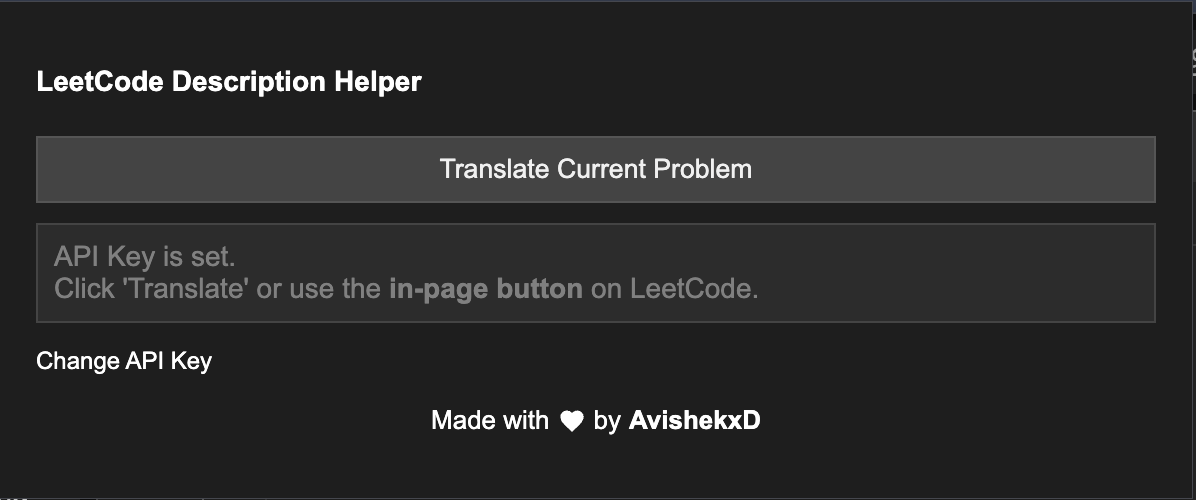
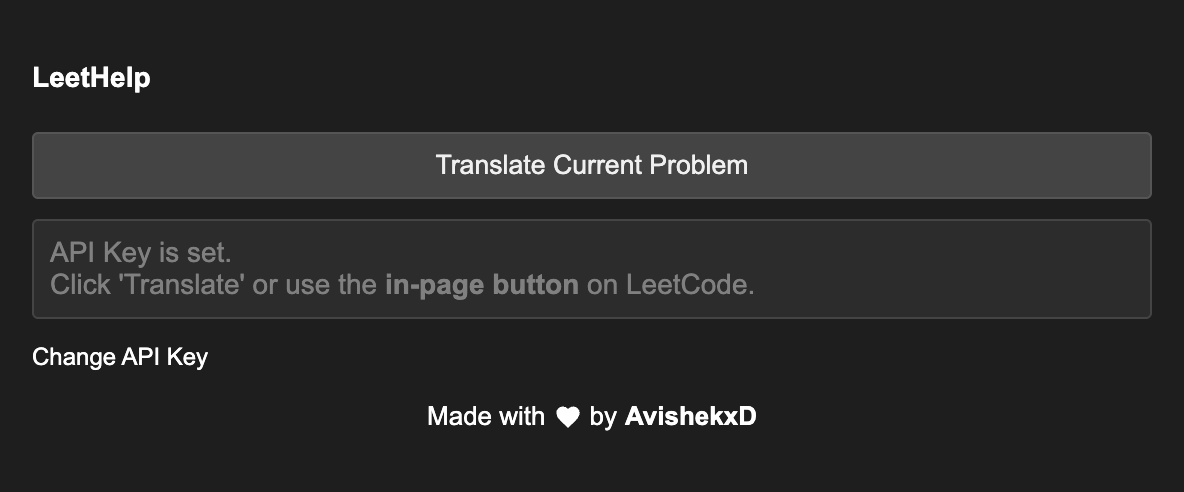
chore: changes in popup style and dyanamically changing inpage button text to slected language.

diff --git a/content.js b/content.js
@@ -186,6 +186,12 @@ function getTranslatedHtml(text) {
 /**
  * Updates the button's content, classes, and text for the given state.
  */
+let selectedLanguage = "Hinglish"; // Default language
+
+function getButtonText(language) {
+    return `Convert to ${language}`;
+}
+
 function updateButtonState(state) {
     if (!toggleBtn) return;
 
@@ -195,7 +201,7 @@ function updateButtonState(state) {
 
     switch (state) {
         case 'initial':
-            toggleBtn.innerHTML = `${SWAP_SVG_ICON}<span>${INITIAL_BTN_TEXT}</span>`;
+            toggleBtn.innerHTML = `${SWAP_SVG_ICON}<span>${getButtonText(selectedLanguage)}</span>`;
             isTranslated = false;
             break;
         case 'translated':
@@ -209,6 +215,20 @@ function updateButtonState(state) {
             toggleBtn.disabled = true;
             break;
     }
+}
+
+// Add this function to fetch the selected language
+function updateSelectedLanguage() {
+    chrome.storage.local.get(['selectedLanguage'], (data) => {
+        if (data.selectedLanguage) {
+            selectedLanguage = data.selectedLanguage;
+            // Update button text if it exists
+            const btn = document.getElementById("hinglish-toggle-btn");
+            if (btn && !isTranslated) {
+                btn.innerHTML = `${SWAP_SVG_ICON}<span>${getButtonText(selectedLanguage)}</span>`;
+            }
+        }
+    });
 }
 
 
@@ -336,7 +356,8 @@ function injectHinglishButton() {
     // Apply LeetCode styling classes
     toggleBtn.className = "relative inline-flex items-center justify-center text-caption px-2 py-1 gap-1 rounded-full bg-fill-secondary cursor-pointer transition-colors hover:bg-fill-primary hover:text-text-primary text-sd-secondary-foreground hover:opacity-80 whitespace-nowrap";
 
-    // Set initial state content
+    // Get the current selected language and set initial state
+    updateSelectedLanguage();
     updateButtonState('initial');
 
     // Determine injection point
@@ -351,6 +372,17 @@ function injectHinglishButton() {
     // Attach handler - only executed once
     toggleBtn.addEventListener("click", handleTranslation);
 }
+
+// Add listener for storage changes to update button text
+chrome.storage.onChanged.addListener((changes, namespace) => {
+    if (namespace === 'local' && changes.selectedLanguage) {
+        selectedLanguage = changes.selectedLanguage.newValue;
+        const btn = document.getElementById("hinglish-toggle-btn");
+        if (btn && !isTranslated) {
+            btn.innerHTML = `${SWAP_SVG_ICON}<span>${getButtonText(selectedLanguage)}</span>`;
+        }
+    }
+});
 
 // Inject the custom CSS for the loading animation once
 injectLoadingStyle();

diff --git a/popup.html b/popup.html
@@ -1,7 +1,7 @@
 <!DOCTYPE html>
 <html>
   <head>
-    <title>LeetCode Description Helper</title>
+    <title>LeetHelp</title>
     <style>
       body {
         font-family: Arial, sans-serif;
@@ -19,6 +19,7 @@
         border: 1px solid #555; 
         cursor: pointer;
         transition: background 0.2s;
+        border-radius: 3px;
       }
       button:hover {
         background: #555; 
@@ -31,6 +32,7 @@
         border: 1px solid #444;
         font-size: 14px;
         color: #fff; 
+        border-radius: 3px;
       }
       a {
         color: #fff; 
@@ -42,7 +44,7 @@
     </style>
   </head>
   <body>
-    <h3>LeetCode Description Helper</h3>
+    <h3>LeetHelp</h3>
     <button id="translateBtn">Translate Current Problem</button>
     <div id="output"></div>
     <p><a href="options.html" target="_blank">Change API Key</a></p>
